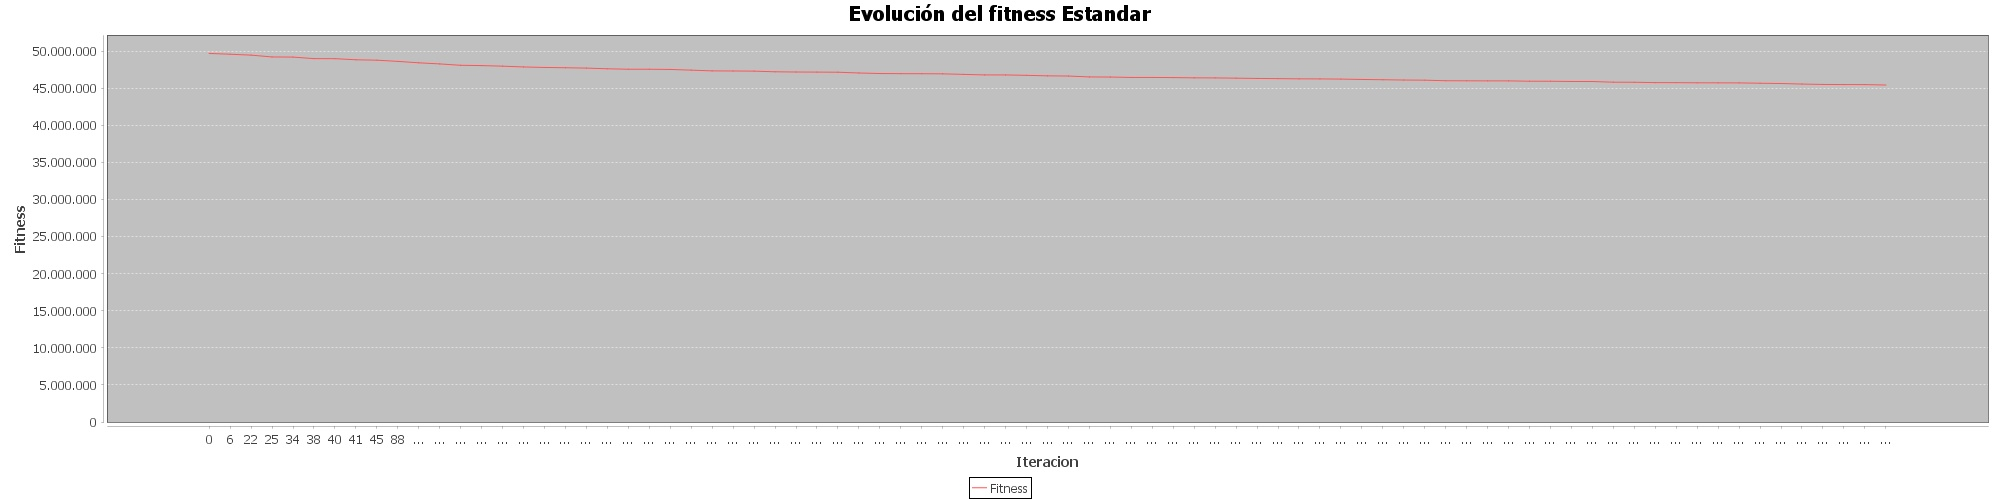
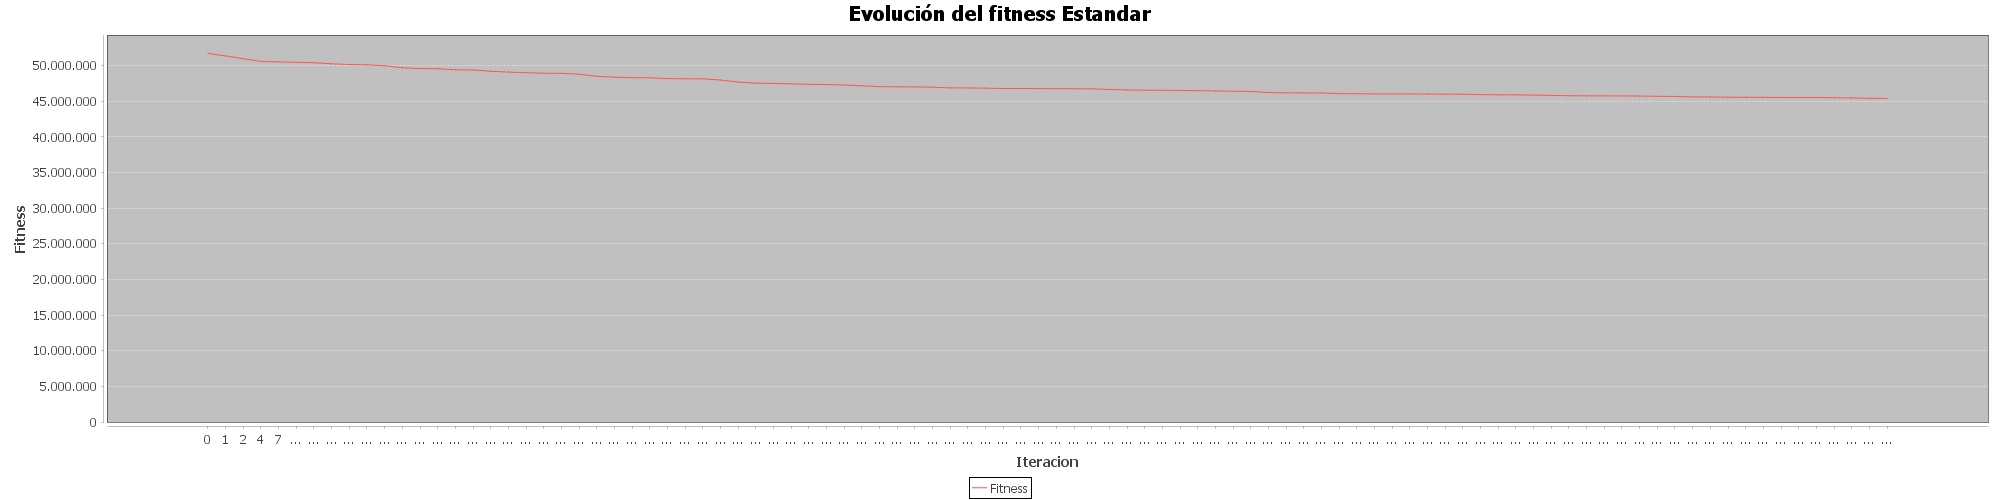
Utilizada la descendencia como nueva poblacion

diff --git a/QAP genetic algorithm/src/qap/genetic/algorithm/Baldwiniana.java b/QAP genetic algorithm/src/qap/genetic/algorithm/Baldwiniana.java
@@ -57,14 +57,18 @@ public class Baldwiniana {
      */
     public void ejecutar() {
         UtilGeneticos util = new UtilGeneticos(n, this.flujos, this.distancias);
+        descendencia = new ArrayList<>();
         long startTime = System.currentTimeMillis();
         for (int i = 0; i < conf.getnIteraciones(); i++) {
+            if (i % 1000 == 0) {
+                System.out.println("It " + i);
+            }
             if (this.sinMejorar >= this.conf.getItSinMejora()) {
                 util.generarPoblacionAleatoria(poblacion, conf.getTamPoblacion() - 1);
                 poblacion.add(mejor);
                 this.sinMejorar = 0;
             }
-            descendencia = new ArrayList<>();
+            descendencia.clear();
             for (int j = 0; j < conf.getTamPoblacion() / 2; j++) {
 
                 Individuo padre1 = util.torneoBinario1(poblacion);
@@ -75,9 +79,14 @@ public class Baldwiniana {
                 descendencia.add(hijo1);
                 descendencia.add(hijo2);
             }
+
             util.mutarPoblacion(descendencia);
             buscarMejor(i, util);
-            System.gc();
+            poblacion.clear();
+            for (int j = 0; j < descendencia.size() - 1; j++) {
+                poblacion.add(descendencia.get(j));
+            }
+            poblacion.add(mejor);
         }
         util.guardarResultado("baldwin", mejor);
         long endTime = System.currentTimeMillis() - startTime;
@@ -97,7 +106,7 @@ public class Baldwiniana {
             if (descendencia.get(i).getFitness() < mejor.getFitness()) {
                 System.out.println("Nuevo mejor " + descendencia.get(i).getFitness() + " en la iteracion " + ite);
                 this.haMejorado = true;
-                mejor.setCromosoma(descendencia.get(i).getCromosoma());
+                mejor.setCromosoma(descendencia.get(i).getCromosoma().clone());
                 mejor.calcularFitness(flujos, distancias);
                 this.graficoMejora.add(new Pair(ite, mejor.getFitness()));
                 util.guardarResultado("baldwin", mejor);

diff --git a/QAP genetic algorithm/src/qap/genetic/algorithm/Estandar.java b/QAP genetic algorithm/src/qap/genetic/algorithm/Estandar.java
@@ -57,14 +57,18 @@ public class Estandar {
      */
     public void ejecutar() {
         UtilGeneticos util = new UtilGeneticos(n, this.flujos, this.distancias);
+        descendencia = new ArrayList<>();
         long startTime = System.currentTimeMillis();
         for (int i = 0; i < conf.getnIteraciones(); i++) {
+            if (i % 1000 == 0) {
+                System.out.println("It " + i);
+            }
             if (this.sinMejorar >= this.conf.getItSinMejora()) {
                 util.generarPoblacionAleatoria(poblacion, conf.getTamPoblacion() - 1);
                 poblacion.add(mejor);
                 this.sinMejorar = 0;
             }
-            descendencia = new ArrayList<>();
+            descendencia.clear();
             for (int j = 0; j < conf.getTamPoblacion() / 2; j++) {
 
                 Individuo padre1 = util.torneoBinario1(poblacion);
@@ -76,8 +80,14 @@ public class Estandar {
                 descendencia.add(hijo1);
                 descendencia.add(hijo2);
             }
+
             util.mutarPoblacion(descendencia);
             buscarMejor(i, util);
+            poblacion.clear();
+            for (int j = 0; j < descendencia.size() - 1; j++) {
+                poblacion.add(descendencia.get(j));
+            }
+            poblacion.add(mejor);
         }
         util.guardarResultado("estandar", mejor);
         long endTime = System.currentTimeMillis() - startTime;
@@ -96,7 +106,7 @@ public class Estandar {
             if (descendencia.get(i).getFitness() < mejor.getFitness()) {
                 System.out.println("Nuevo mejor " + descendencia.get(i).getFitness() + " en la iteracion " + ite);
                 this.haMejorado = true;
-                mejor.setCromosoma(descendencia.get(i).getCromosoma());
+                mejor.setCromosoma(descendencia.get(i).getCromosoma().clone());
                 mejor.calcularFitness(flujos, distancias);
                 this.graficoMejora.add(new Pair(ite, mejor.getFitness()));
                 util.guardarResultado("estandar", mejor);

diff --git a/QAP genetic algorithm/src/qap/genetic/algorithm/Lamarckiana.java b/QAP genetic algorithm/src/qap/genetic/algorithm/Lamarckiana.java
@@ -57,14 +57,18 @@ public class Lamarckiana {
      */
     public void ejecutar() {
         UtilGeneticos util = new UtilGeneticos(n, this.flujos, this.distancias);
+        descendencia = new ArrayList<>();
         long startTime = System.currentTimeMillis();
         for (int i = 0; i < conf.getnIteraciones(); i++) {
+            if (i % 1000 == 0) {
+                System.out.println("It " + i);
+            }
             if (this.sinMejorar >= this.conf.getItSinMejora()) {
                 util.generarPoblacionAleatoria(poblacion, conf.getTamPoblacion() - 1);
                 poblacion.add(mejor);
                 this.sinMejorar = 0;
             }
-            descendencia = new ArrayList<>();
+            descendencia.clear();
             for (int j = 0; j < conf.getTamPoblacion() / 2; j++) {
 
                 Individuo padre1 = util.torneoBinario1(poblacion);
@@ -75,9 +79,14 @@ public class Lamarckiana {
                 descendencia.add(hijo1);
                 descendencia.add(hijo2);
             }
+
             util.mutarPoblacion(descendencia);
             buscarMejor(i, util);
-            System.gc();
+            poblacion.clear();
+            for (int j = 0; j < descendencia.size() - 1; j++) {
+                poblacion.add(descendencia.get(j));
+            }
+            poblacion.add(mejor);
         }
         util.guardarResultado("lamarck", mejor);
         long endTime = System.currentTimeMillis() - startTime;

diff --git a/QAP genetic algorithm/src/qap/genetic/algorithm/UtilGeneticos.java b/QAP genetic algorithm/src/qap/genetic/algorithm/UtilGeneticos.java
@@ -95,7 +95,7 @@ public class UtilGeneticos {
         int p1 = rnd.nextInt((conf.getTamPoblacion() - 1) + 1);
         int p2 = rnd.nextInt((conf.getTamPoblacion() - 1) + 1);
         if (p1 == p2 || poblacion.get(p1).igualIndividuo(padre1) || poblacion.get(p2).igualIndividuo(padre1)) {
-            while (p1 == p2 || poblacion.get(p1).igualIndividuo(padre1) || poblacion.get(p2).igualIndividuo(padre1)) {
+            while (p1 == p2 || poblacion.get(p1).getFitness()==padre1.getFitness() || poblacion.get(p2).getFitness()==padre1.getFitness()) {
                 p1 = rnd.nextInt((conf.getTamPoblacion() - 1) + 1);
                 p2 = rnd.nextInt((conf.getTamPoblacion() - 1) + 1);
             }

diff --git a/QAP genetic algorithm/src/qap/genetic/algorithm/main.java b/QAP genetic algorithm/src/qap/genetic/algorithm/main.java
@@ -33,15 +33,16 @@ public class main {
         est.ejecutar();
         new Grafico(est.getGraficoMejora(), "Estandar").setVisible(true);
 
-        //Baldwin
+//        //Baldwin
         Baldwiniana bald = new Baldwiniana(n, flujos, distancias);
         bald.ejecutar();
         new Grafico(bald.getGraficoMejora(), "Balwiniana").setVisible(true);
 
-        //Lamarck
+//        //Lamarck
         Lamarckiana lam = new Lamarckiana(n, flujos, distancias);
         lam.ejecutar();
         new Grafico(lam.getGraficoMejora(),"Lamarckiana").setVisible(true);
+        
     }
 
     private static void leerFichero() throws FileNotFoundException {

diff --git a/QAP genetic algorithm/src/qap/genetic/algorithm/Configuracion.java b/QAP genetic algorithm/src/qap/genetic/algorithm/Configuracion.java
@@ -19,7 +19,7 @@ public class Configuracion {
     /**
      * Numero de iteraciones que va a ejecutar el algoritmo
      */
-    private final int nIteraciones = 10000;
+    private final int nIteraciones = 1000000;
 
     /**
      * Probabilidad de mutar un individuo
